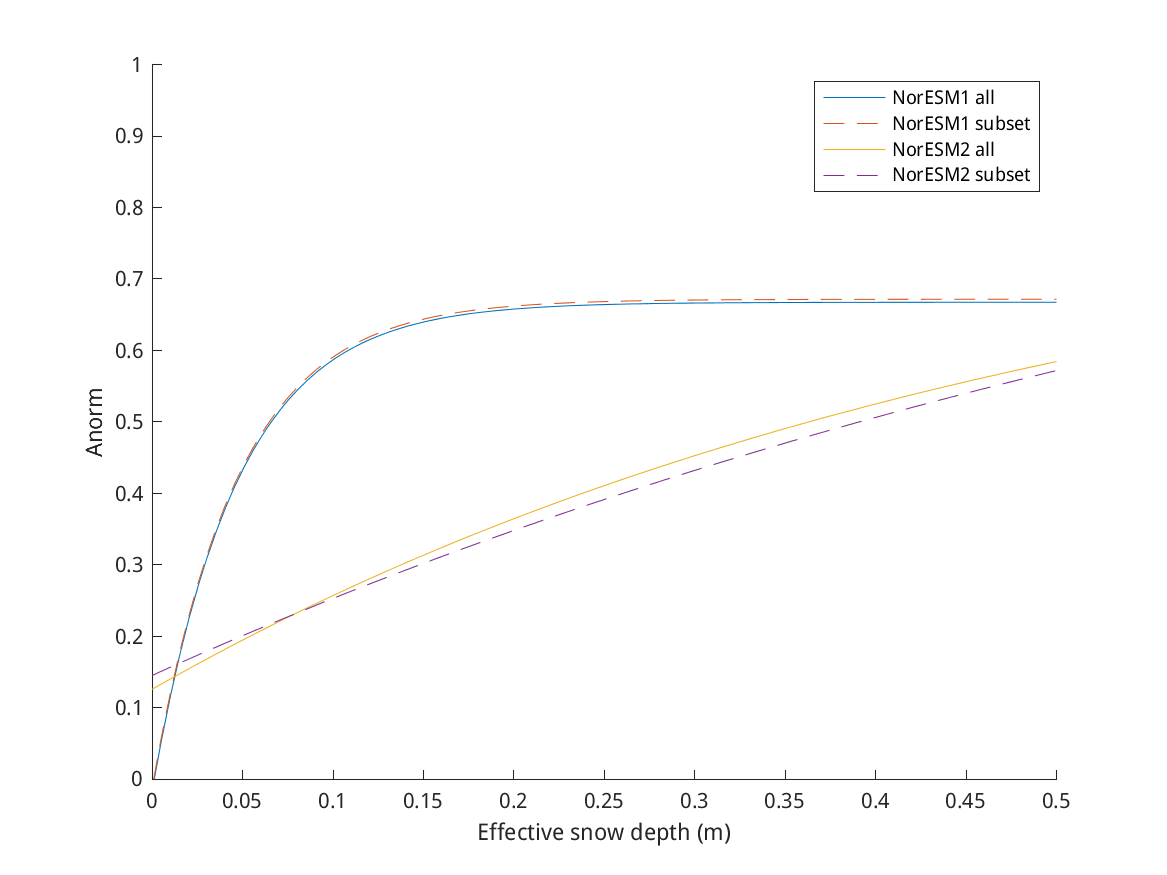
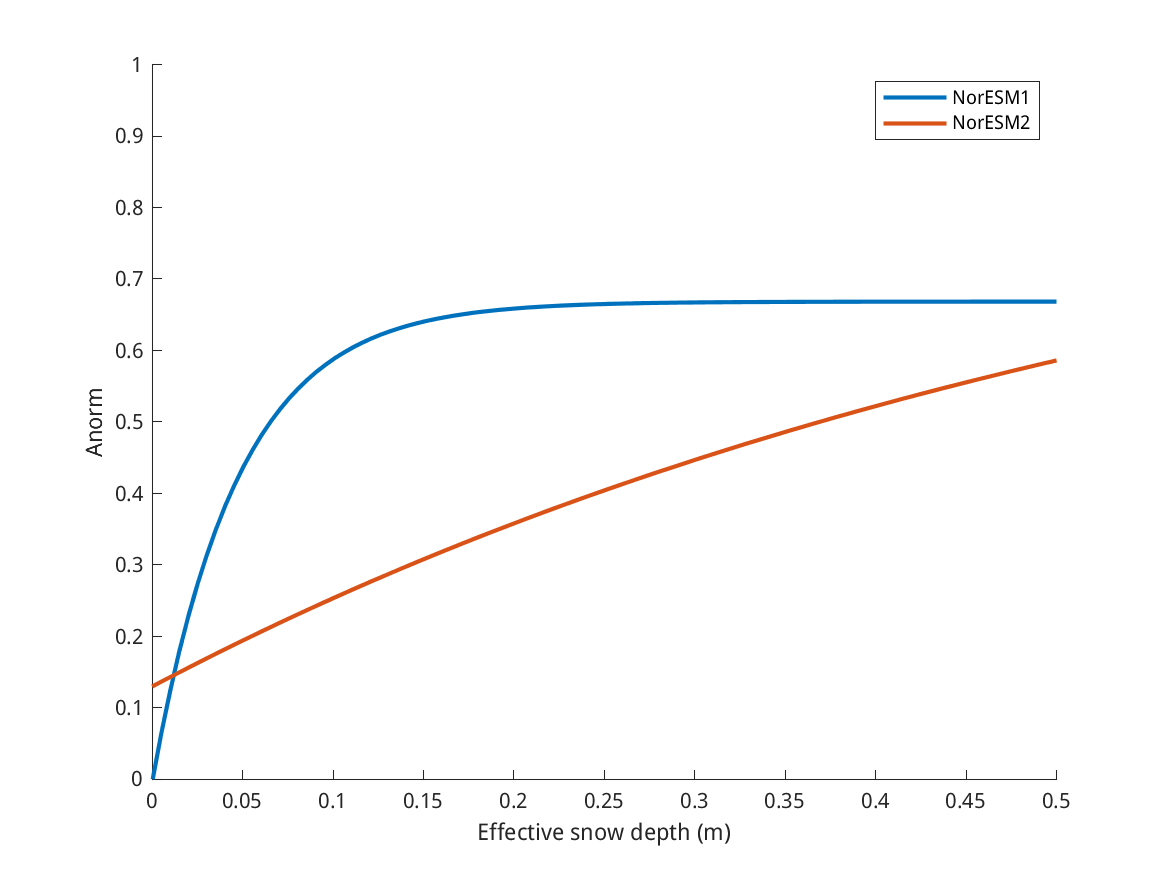
Small update

diff --git a/plot_Snow_NorESM.m b/plot_Snow_NorESM.m
@@ -104,12 +104,12 @@ for norESM=1:2
     x = lsqcurvefit(fun,x0,binedSD,binedAn)
     sds = linspace(0,0.5);
     %figure;plot(binedSD,binedAn,'ko',sds,fun(x,sds),'b-'); hold on;
-    plot(sds,fun(x,sds));
+%    plot(sds,fun(x,sds));
     axis([0,0.5,0,1])
 
 
     %---Randomly select 35 cases in each bin. and fit curve to those. 
-    ntot=10;
+    ntot=100;
     x_all=zeros(3,ntot);
     for nn=1:ntot;
             subsetSD=zeros(1,350); subsetAn=zeros(1,350); 
@@ -135,10 +135,11 @@ for norESM=1:2
         %plot(subsetSD,subsetAn,'.',sds,fun(x,sds),'--')
     end
     xmedian=median(x_all,2);
-    plot(sds,fun(xmedian,sds),'--')
+    plot(sds,fun(xmedian,sds),'-','LineWidth',2)
     axis([0,0.5,0,1])
 end %NorESM
 
-legend('NorESM1 all','NorESM1 subset','NorESM2 all','NorESM2 subset');
+%legend('NorESM1 all','NorESM1 subset','NorESM2 all','NorESM2 subset');
+legend('NorESM1','NorESM2');
 xlabel('Effective snow depth (m)'); ylabel('Anorm');
 saveas(gcf, 'Snow_Insulation.png');
